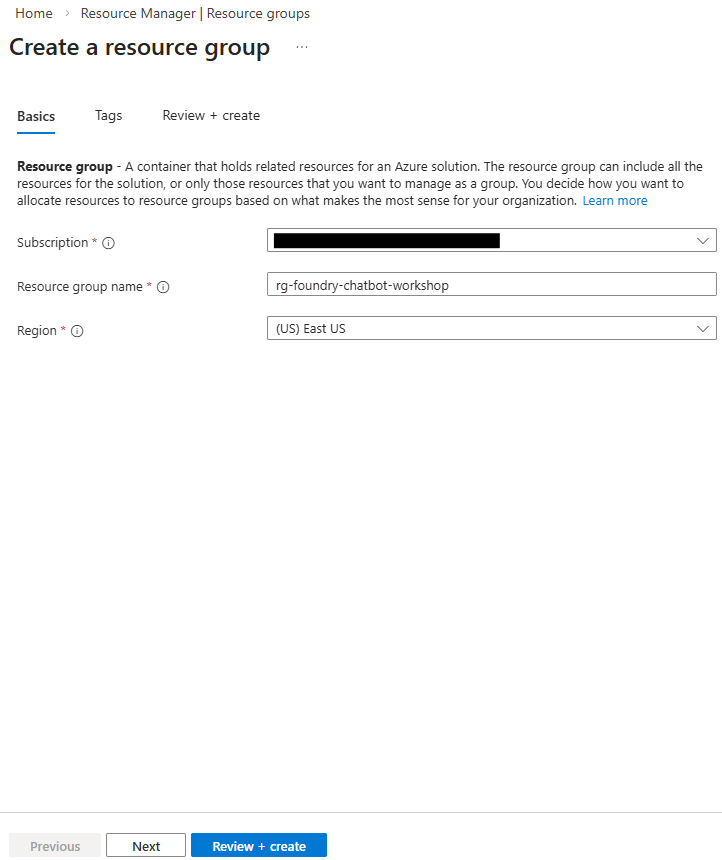
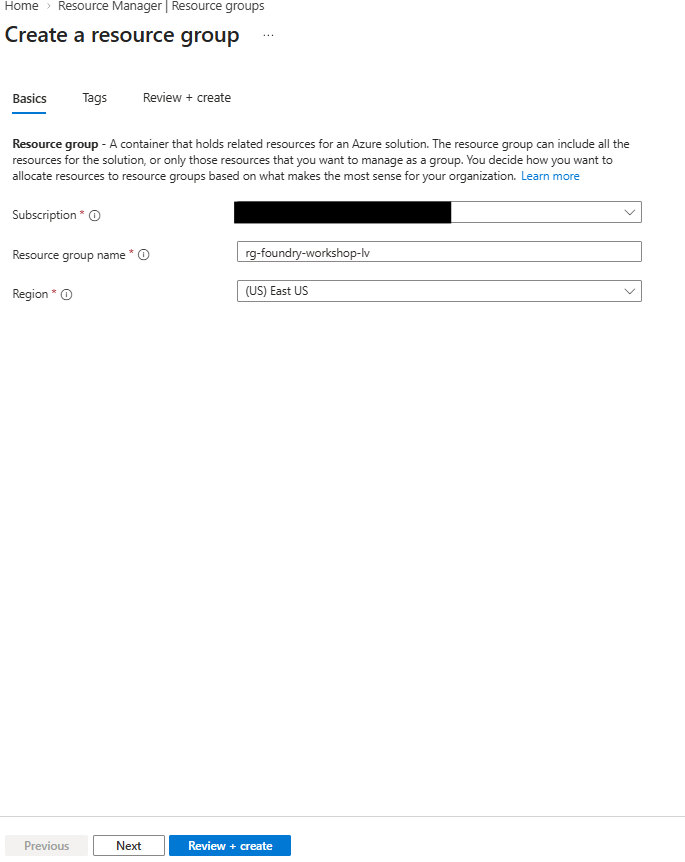
Switch region to East US, rename project to company-assistant

diff --git a/lab-1-setup-azure-resources.md b/lab-1-setup-azure-resources.md
@@ -55,14 +55,14 @@ A deployment is an instance of a model that you can call via API. In this worksh
 
 3. Configure:
    - **Name**: `rg-foundry-workshop-[yourname]`
-   - **Region**: East US 2
+   - **Region**: East US
 4. Click "Review + Create" → "Create"
 
    <img src="images/resource-group-console-3.png" width="500"/>
 
 ### 2. Create Microsoft Foundry Resource
 
-1. Search for "Microsoft Foundry" in the Azure Portal
+1. Search for "Microsoft Foundry" in the top search bar in the Azure Portal
 2. Click "Create"
 
    <img src="images/foundry-resource-1.png" width="500"/>
@@ -70,8 +70,8 @@ A deployment is an instance of a model that you can call via API. In this worksh
 3. Configure:
    - **Resource group**: `rg-foundry-workshop-[yourname]`
    - **Name**: `foundry-workshop-[yourname]`
-   - **Region**: East US 2
-   - **Default project name**: `my-first-chatbot`
+   - **Region**: East US
+   - **Default project name**: `company-assistant`
 4. Click "Review + Create" → "Create"
 
    <img src="images/foundry-resource-2.png" width="500"/>
@@ -83,7 +83,7 @@ A deployment is an instance of a model that you can call via API. In this worksh
 
    <img src="images/new-foundry.png" width="800"/>
 
-3. Select your project (`my-first-chatbot`) → "Let's go"
+3. Select your project (`company-assistant`) → "Let's go"
 
    <img src="images/select-project.png" width="500"/>
 
@@ -103,7 +103,7 @@ A deployment is an instance of a model that you can call via API. In this worksh
 
 You should now have:
 - [ ] Resource group: `rg-foundry-workshop-[yourname]`
-- [ ] Foundry resource with project: `my-first-chatbot`
+- [ ] Foundry resource with project: `company-assistant`
 - [ ] Deployed models: chat model (e.g., `gpt-5.5`) and embedding model (e.g., `text-embedding-3-small`)
 
 ---

diff --git a/lab-2-create-knowledge-base.md b/lab-2-create-knowledge-base.md
@@ -43,7 +43,7 @@ Foundry IQ supports: **PDF, DOCX, MD, TXT, JSON, CSV**, and more (up to 50 MB pe
 
 ## Step 1: Navigate to Knowledge (Foundry IQ)
 
-1. In the **Microsoft Foundry** portal, make sure you're in your project (`my-first-chatbot`)
+1. In the **Microsoft Foundry** portal, make sure you're in your project (`company-assistant`)
 2. In the left navigation under **Build**, click **Knowledge**
 
 You'll see the **Knowledge (Foundry IQ)** page with two tabs: Knowledge bases and Indexes.
@@ -56,7 +56,7 @@ The first time you use Knowledge, you'll need to connect an AI Search resource:
 
 1. Click **Create new resource**
 2. In the dialog that appears:
-   - **Resource name**: Leave the auto-generated name (e.g., `my-first-chatbot-srch-xxxxx`)
+   - **Resource name**: Leave the auto-generated name (e.g., `company-assistant-srch-xxxxx`)
    - **Subscription**: Select your subscription
    - **Resource group**: `rg-foundry-workshop-[yourname]`
    - **Region**: Choose a region that has capacity (if you see a "region at capacity" warning, try another region like **West US 2** or **North Central US**)

diff --git a/lab-5-email-logic-app.md b/lab-5-email-logic-app.md
@@ -53,7 +53,7 @@ The agent determines when to call the tool based on the user's request, formats 
    - **Subscription**: Select your subscription
    - **Resource Group**: `rg-foundry-workshop-[yourname]`
    - **Logic App name**: `logic-send-email-[yourname]`
-   - **Region**: East US 2
+   - **Region**: East US
    - **Plan type**: **Consumption** (pay per execution)
 6. Click **Review + create** → **Create**
 7. Once deployed, click **Go to resource**
